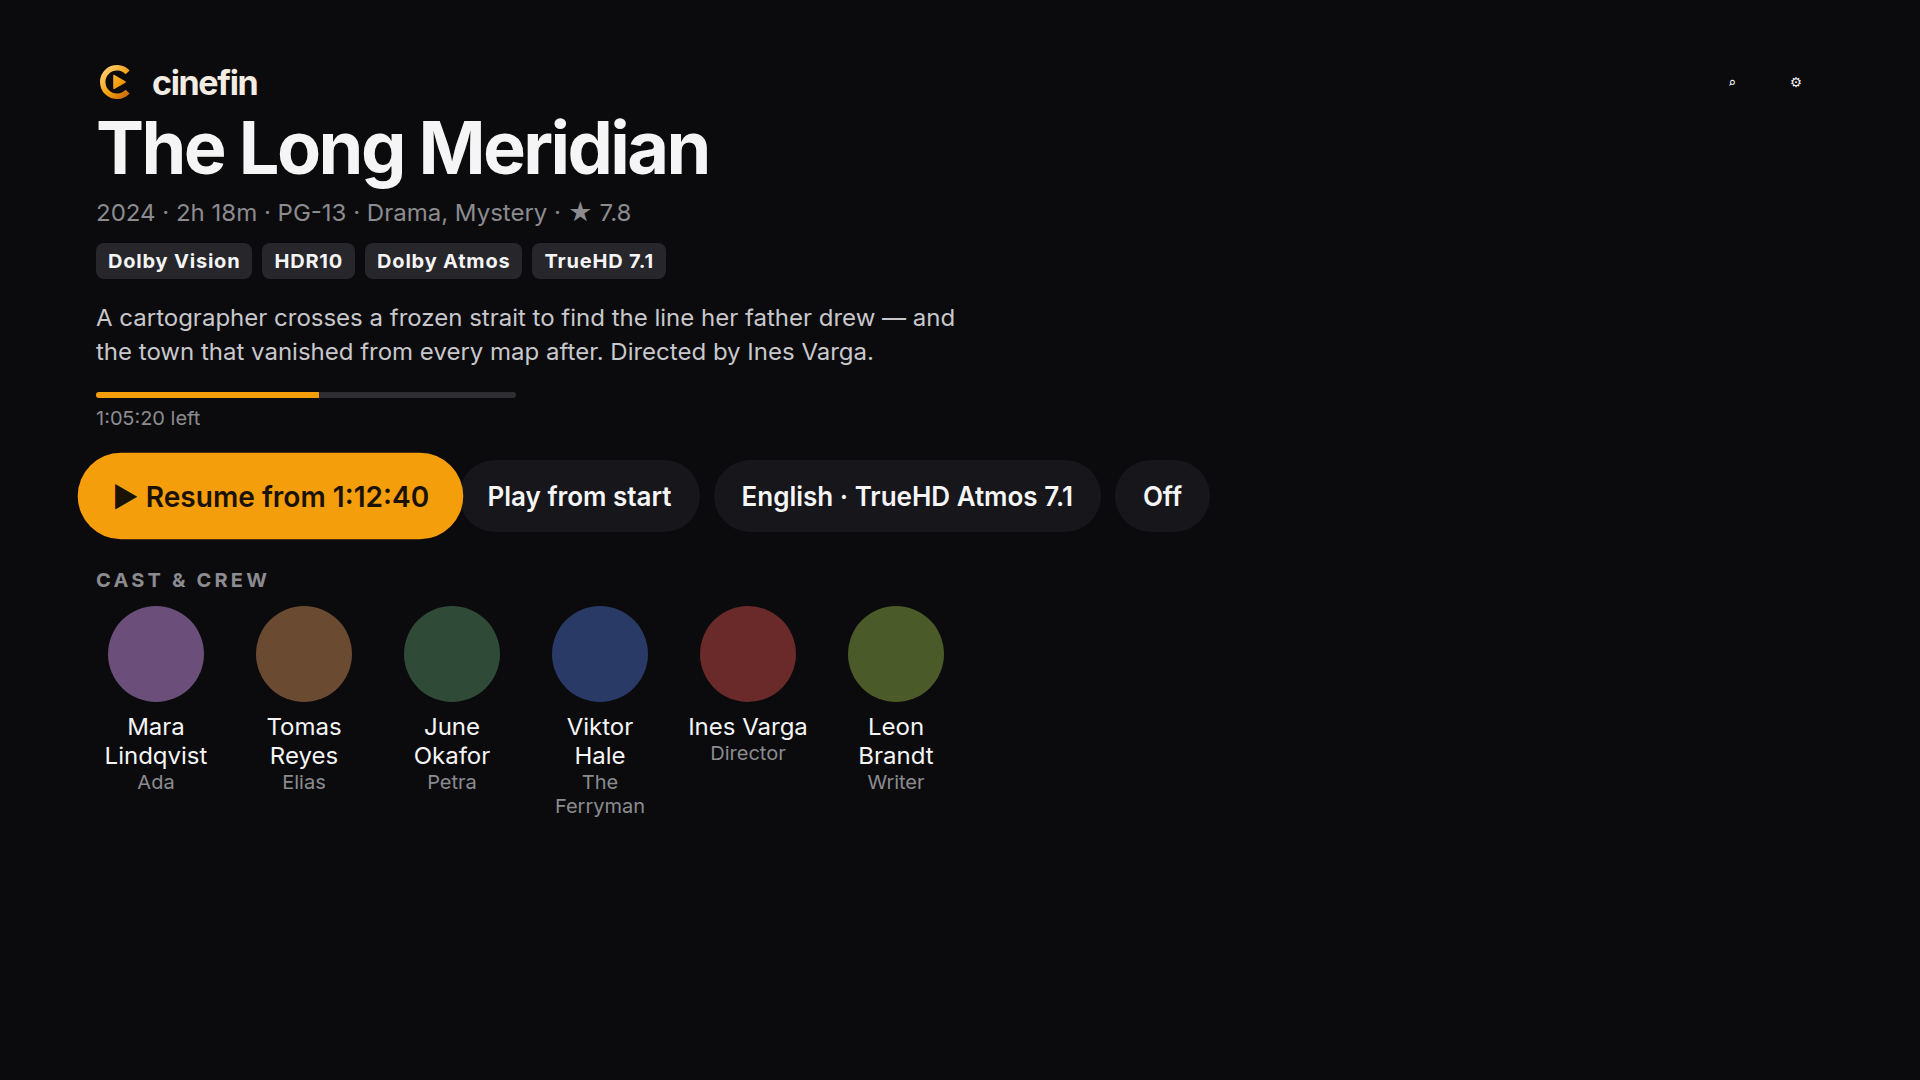
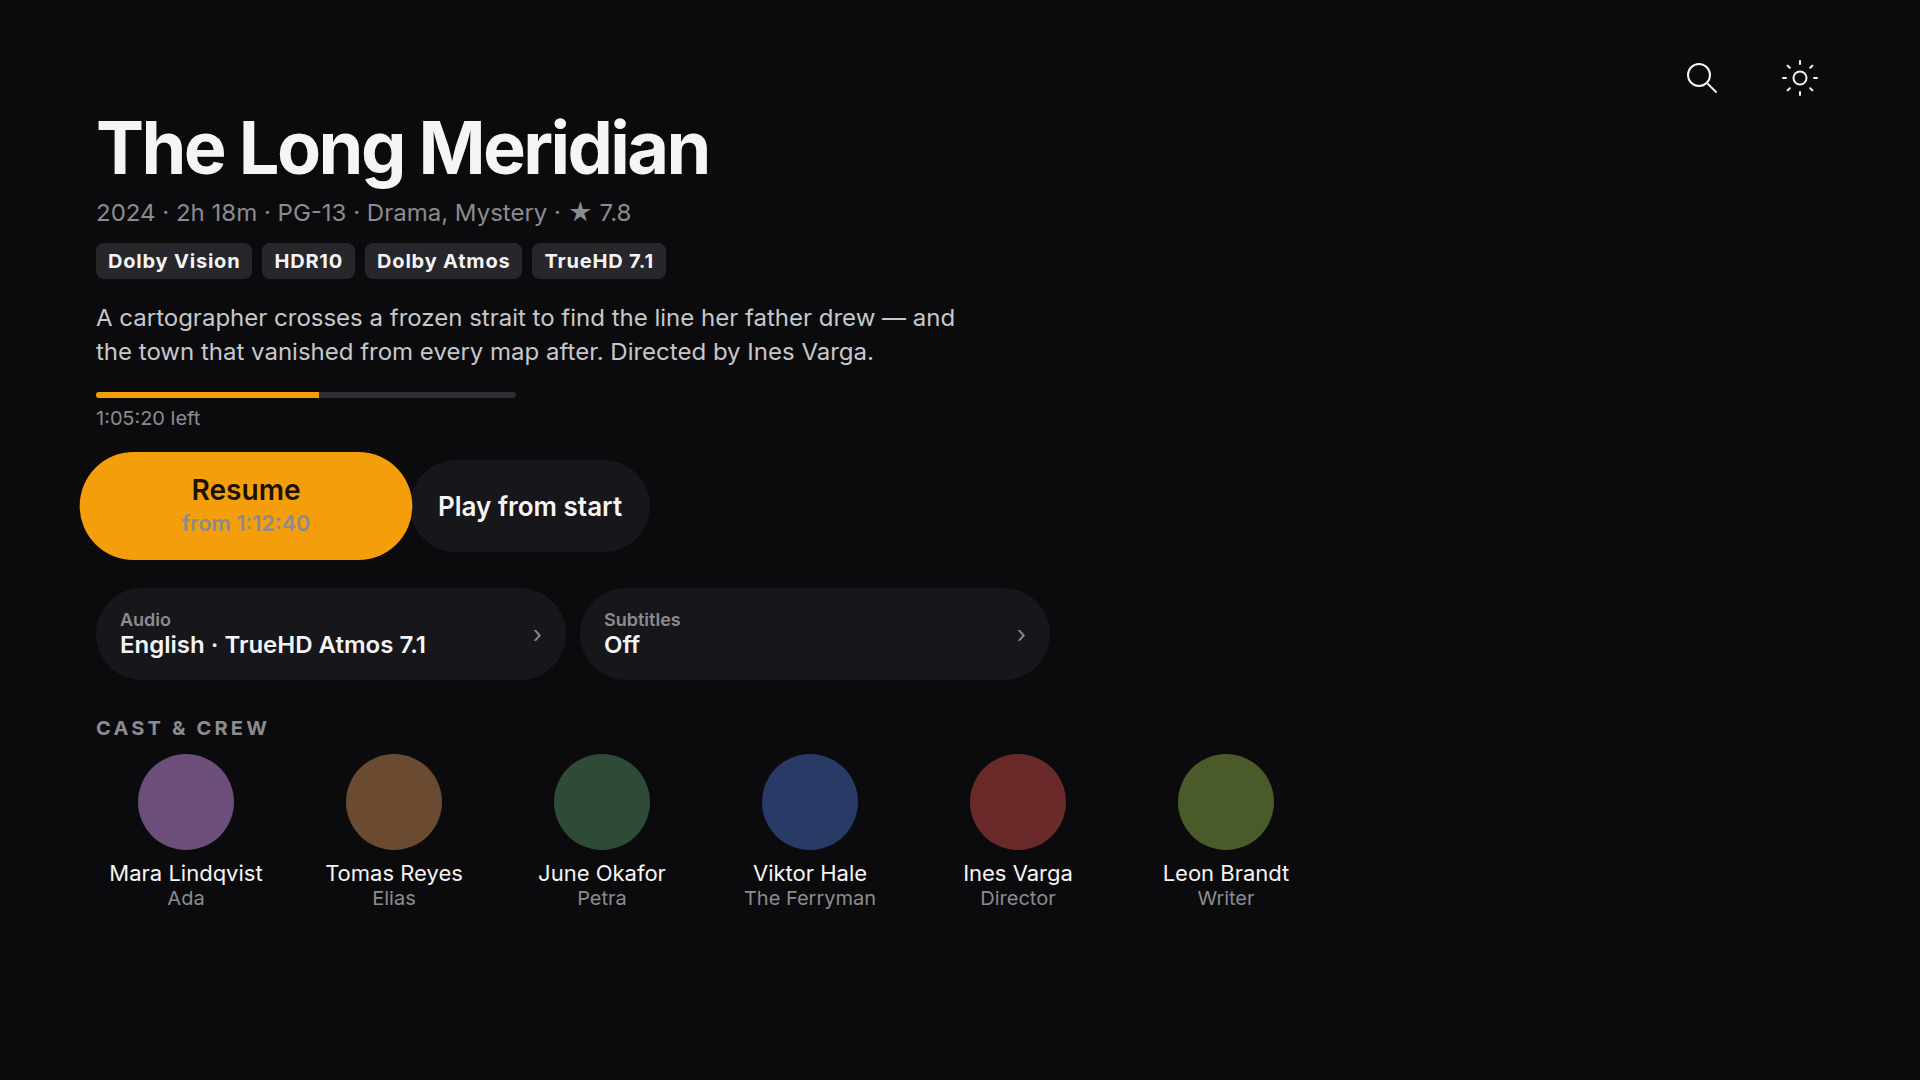
Retake board screenshots after review layout fixes
Keep the Output States Back control fully on-screen, hide Details icons under the audio sheet, and refresh all 16 1920×1080 captures in docs/screenshots/.

diff --git a/apps/webos/src/screens/PlayerScreen.tsx b/apps/webos/src/screens/PlayerScreen.tsx
@@ -176,11 +176,11 @@ export function OutputStatesScreen({ onBack }: { onBack: () => void }) {
   ];
   return (
     <FocusRoot initial="back">
-      <div className="screen" style={{ padding: 'var(--safe-y) var(--safe-x)' }}>
+      <div className="screen output-states">
         <h1 className="h1" style={{ marginBottom: 12 }}>
           Output states
         </h1>
-        <p className="muted" style={{ maxWidth: 880, marginBottom: 32 }}>
+        <p className="muted" style={{ maxWidth: 880, marginBottom: 20 }}>
           The line in the player overlay that shows what happens to audio and video. Hidden by default; one press of the remote shows it.
         </p>
         <div className="state-list">
@@ -207,7 +207,7 @@ export function OutputStatesScreen({ onBack }: { onBack: () => void }) {
         <Focusable
           id="back"
           className="btn"
-          style={{ marginTop: 28, marginLeft: 0 }}
+          style={{ marginTop: 20, alignSelf: 'flex-start' }}
           onSelect={onBack}
         >
           Back

diff --git a/apps/webos/src/screens/DetailsScreen.tsx b/apps/webos/src/screens/DetailsScreen.tsx
@@ -36,12 +36,16 @@ export function DetailsScreen({
   return (
     <FocusRoot initial={pickerOpen && current ? `track-${current.index}` : 'play'}>
       <div className="screen screen-fill">
-        <Focusable id="search" className="icon-btn icon-search">
-          <IconSearch />
-        </Focusable>
-        <Focusable id="settings" className="icon-btn icon-settings" onSelect={onSettings}>
-          <IconSettings />
-        </Focusable>
+        {pickerOpen ? null : (
+          <>
+            <Focusable id="search" className="icon-btn icon-search">
+              <IconSearch />
+            </Focusable>
+            <Focusable id="settings" className="icon-btn icon-settings" onSelect={onSettings}>
+              <IconSettings />
+            </Focusable>
+          </>
+        )}
         <div className="details">
           <h1 className="h1 h1-lg">{item.name}</h1>
           <div className="meta" style={{ marginTop: 12 }}>

diff --git a/apps/webos/src/theme.css b/apps/webos/src/theme.css
@@ -957,7 +957,7 @@ input {
   width: 64px;
   height: 64px;
   border-radius: 50%;
-  background: var(--surface-2);
+  background: #2c2c32;
   display: flex;
   align-items: center;
   justify-content: center;
@@ -1072,21 +1072,31 @@ input {
 }
 
 /* Output states */
-.state-list {
-  width: 1600px;
+.output-states {
   display: flex;
   flex-direction: column;
-  gap: 16px;
+  height: 1080px;
+  padding: var(--safe-y) var(--safe-x);
+}
+
+.state-list {
+  width: 100%;
+  flex: 1 1 auto;
+  min-height: 0;
+  display: flex;
+  flex-direction: column;
+  gap: 10px;
 }
 
 .state-card {
   display: grid;
   grid-template-columns: 420px 1fr;
-  gap: 28px;
+  gap: 24px;
   align-items: center;
   background: var(--surface);
   border-radius: 22px;
-  padding: 18px 24px;
+  padding: 10px 20px;
+  flex: 1 1 0;
 }
 
 .icon-btn {

diff --git a/apps/webos/src/screens/WizardScreens.tsx b/apps/webos/src/screens/WizardScreens.tsx
@@ -51,7 +51,7 @@ export function WizardDetect({
             <p className="muted" style={{ marginBottom: 28, maxWidth: 720 }}>
               Here's what we found over HDMI eARC. The test on the next step confirms it.
             </p>
-            <div className="server-card" style={{ width: '100%', marginBottom: 12 }}>
+            <div className="server-card" style={{ width: '100%', height: 'auto', minHeight: 92, marginBottom: 12, padding: '14px 28px' }}>
               <span className="glyph-orb">✓</span>
               <span>
                 <div className="name">Connected over HDMI eARC</div>
